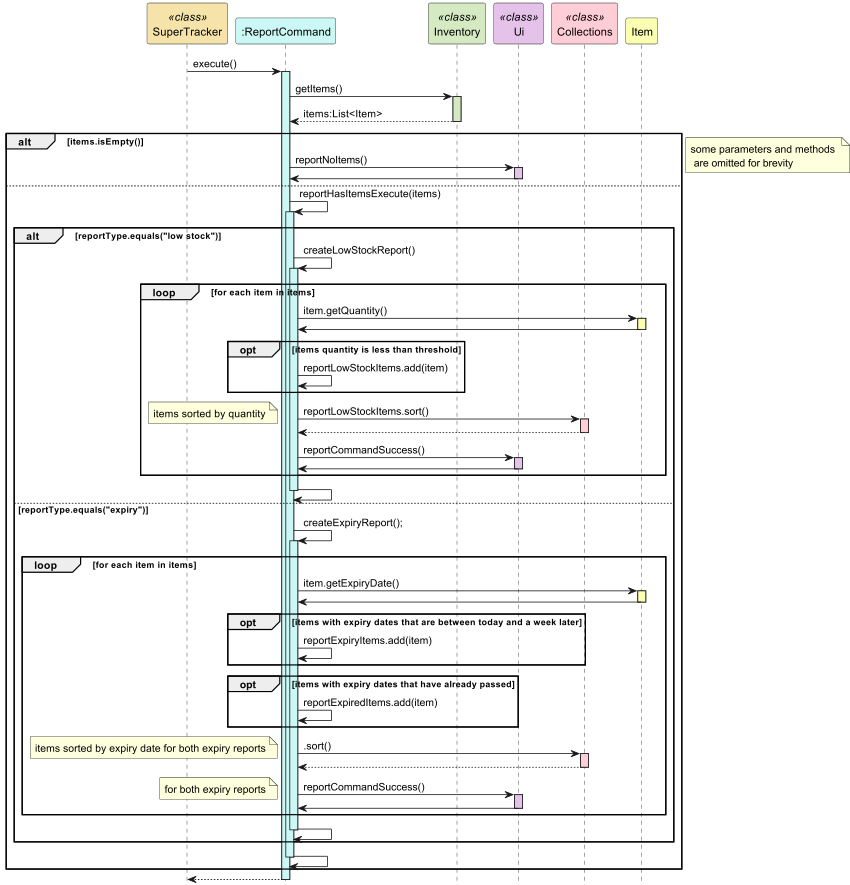
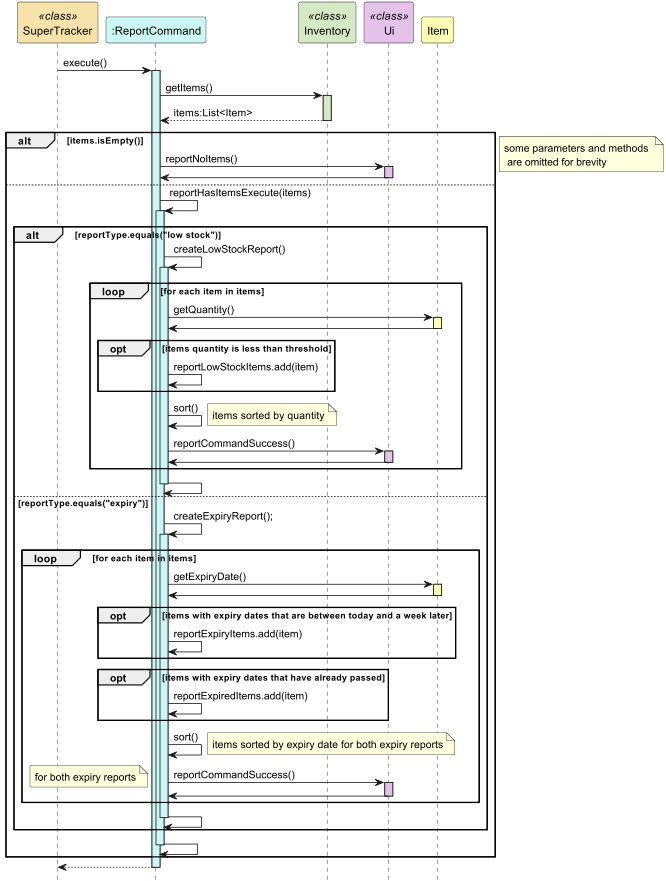
add expenditure command to developer guide

diff --git a/docs/DeveloperGuide.md b/docs/DeveloperGuide.md
@@ -338,8 +338,8 @@ A ReportCommand instance is created by the `parseReportCommand` method called by
 - `Ui`: To print the list of items in the inventory to the output
 
 There are 2 types of reports:
-1. `report r/low stock t/threshold`: creates a list of items that are low on stock based on the threshold
-2. `report r/expiry`: creates a list of items that have expired or are 1 week to expiring
+1. `report r/low stock t/threshold`: Lists all items that are low on stock based on the threshold
+2. `report r/expiry`: Lists all items that have expired or are 1 week to expiring
 
 The following sequence diagram shows the execution of a ReportCommand<br>
 ![ReportCommandSequence](uml-diagrams/ReportCommandSequence.png)
@@ -351,10 +351,40 @@ If it is `ReportCommand` calls the method `reportNoItems` of the `Ui` class. If 
 4. In the `reportHasItemsExecute` method, there is an alternative path check for the type of report. 
 If its of type "low stock" it calls the method `createLowStockReport` of `ReportCommand` class. If its of type "expiry" it calls the method `createExpiryReport` of the `ReportCommand` class.
 5. In `createLowStockReport`, for each item in items it checks if the item's quantity is below the threshold requirement. 
-If it is, it is added to the report. At the end, the report is sorted by quantity and the method `reportCommandSuccess` of the `Ui` class is called for the report.
+If it is, it is added to the report. At the end, the report is sorted by quantity using the ArrayList sort method and the method `reportCommandSuccess` of the `Ui` class is called for the report.
 6. In `createExpiryReport`, for each item in items it checks if the item's expiry date is between the present day and a week later or has already passed 
 and adds the item to 2 different reports if the respective requirements are met. At the end, both reports are sorted by their expiry dates
-and 2 instances of the method `reportCommandSuccess` of the `ReportCommand` class is called for each report.
+using the ArrayList sort method and 2 instances of the method `reportCommandSuccess` of the `ReportCommand` class is called for each report.
+
+### Expenditure Command
+The following is a class diagram of the ExpenditureCommand and its relevant dependencies<br>
+![ExpenditureCommandClass](uml-diagrams/ExpenditureCommandClass.png)
+
+The `ExpenditureCommand` class implements the `Command` interface and is responsible for printing out the expenditures to the output.
+A ExpenditureCommand instance is created by the `parseExpenditureCommand` method called by Parser, which parses the user input to determine the range of dates that the expenditure is supposed to print out.
+
+#### Dependencies
+- `Item`: For getting the comparator needed to sort the list of transactions
+- `TransactionsList`: For getting the list of transactions
+- `Ui`: To print the list of items in the inventory to the output
+
+There are 4 types of expenditures that can be requested:
+1. `exp type/today`: Lists all the expenditures made today
+2. `exp type/total`: Lists all expenditures that have been made
+3. `exp type/day from/{startDate}`: Lists all expenditures made on that particular day
+4. `exp type/range from/{startDate} to/{endDate}`: Lists all expenditures within the range of dates not inclusive of the start and end dates
+
+The following sequence diagram shows the execution of a ExpenditureCommand<br>
+![ExpenditureCommandSequence](uml-diagrams/ExpenditureCommandSequence.png)
+
+1. The `SuperTracker` class calls the `execute` method of `ExpenditureCommand`
+2. There is an alternative path check for whether the task is "today", "total", "day" and "range" and the 
+method `calculateDay`, `calculateTotal`, `calculateDay` and `calculateRange` of class `TransactionList` would be called respectively
+which returns expenditure of type BigDecimal.
+3. The method `getFilteredTransactionList` of class `TransactionList` is then called which returns filteredList of ArrayList<Transaction>.
+4. filteredList is then sorted by calling sort from the ArrayList class and sorted by the transactions expiry date.
+5. The `reverse` method of class `Collections` is called on filteredList
+6. `printRevenueExpenditure` method of class Ui is called and the list of filtered transactions is printed out.
 
 ### Help Command
 The following is a class diagram of the HelpCommand and its relevant dependencies<br>
